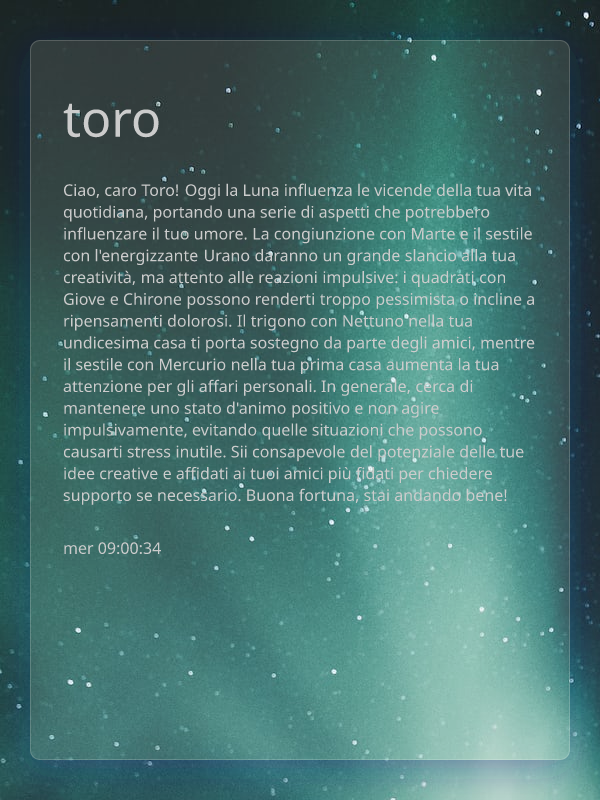
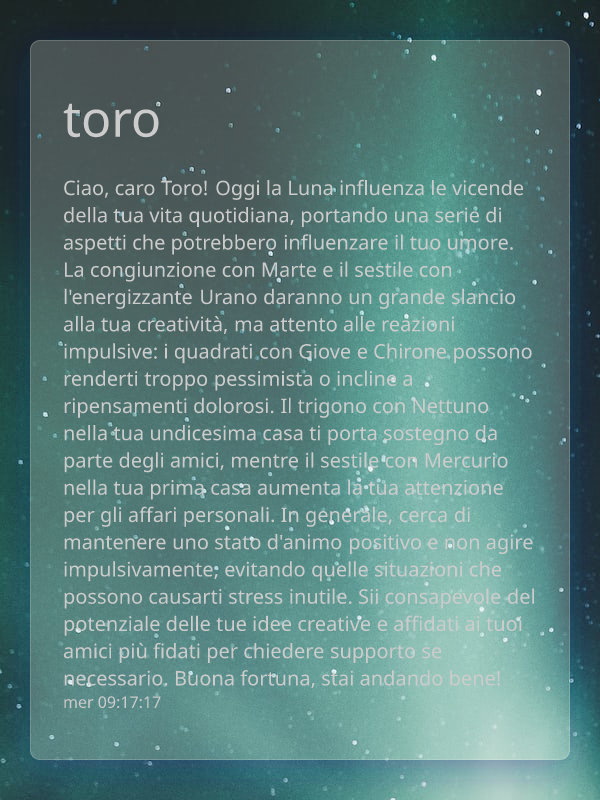
random tweet

Changed region(s): [[0.09, 0.2188, 0.9, 0.9062]]

diff --git a/src/libs/generateOg.js b/src/libs/generateOg.js
@@ -32,7 +32,7 @@ export async function generateOgImg(sign) {
       >
         <div
           style={{
-            background: "rgba( 255, 255, 255, 0.1 )",
+            background: "rgba( 255, 255, 255, 0.2 )",
             boxShadow: "0 8px 32px 0 rgba( 31, 38, 135, 0.37 )",
             backdropFilter: "blur( 10px )",
             WebkitBackdropFilter: "blur( 10px )",
@@ -50,7 +50,9 @@ export async function generateOgImg(sign) {
           <h1 style={{
             fontSize:'50px'
           }} >{sign.sign}</h1>
-          <p >{sign.horoscope}</p>
+          <p style={{
+            fontSize:"20px"
+          }} >{sign.horoscope}</p>
           <p>{timestamp}</p>
         </div>
       </div>

diff --git a/src/pages/api/tweetTest.js b/src/pages/api/tweetTest.js
@@ -23,14 +23,15 @@
 // }
 
 import { tweetCard } from '@/libs/tweetImage';
+import { getRandomNumber } from '@/libs/utilities';
 import path from 'path';
 import { zodiacSigns } from '../../../assets/zodiacSigns';
 
 export default async function handler(req, res) {
   try {
+const randomSign = getRandomNumber()
 
-
-    const tweet = await tweetCard(zodiacSigns[11].name)
+    const tweet = await tweetCard(zodiacSigns[randomSign].name)
 
     console.log("TWEET SENT!!!", tweet);
 

diff --git a/src/libs/utilities.js b/src/libs/utilities.js
@@ -1,0 +1,4 @@
+export function getRandomNumber() {
+    return Math.floor(Math.random() * 12);
+  }
+  
